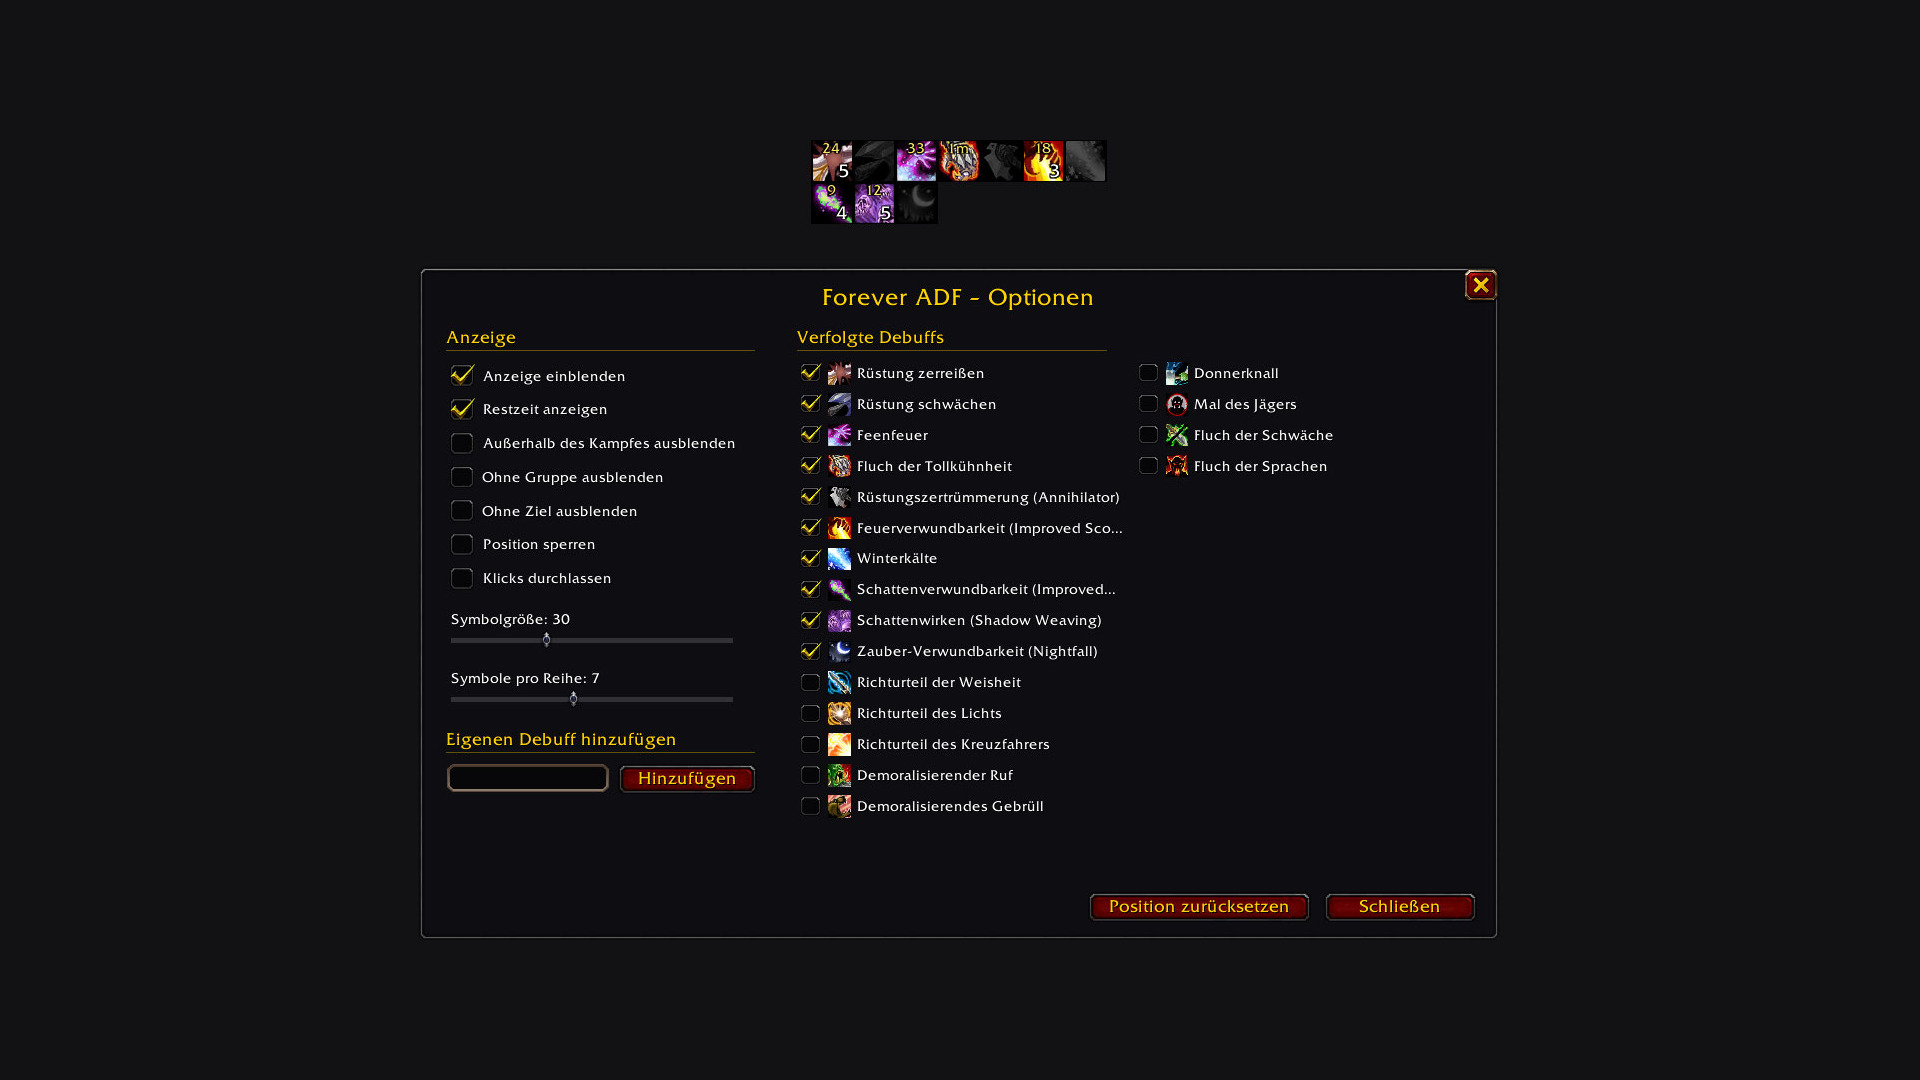
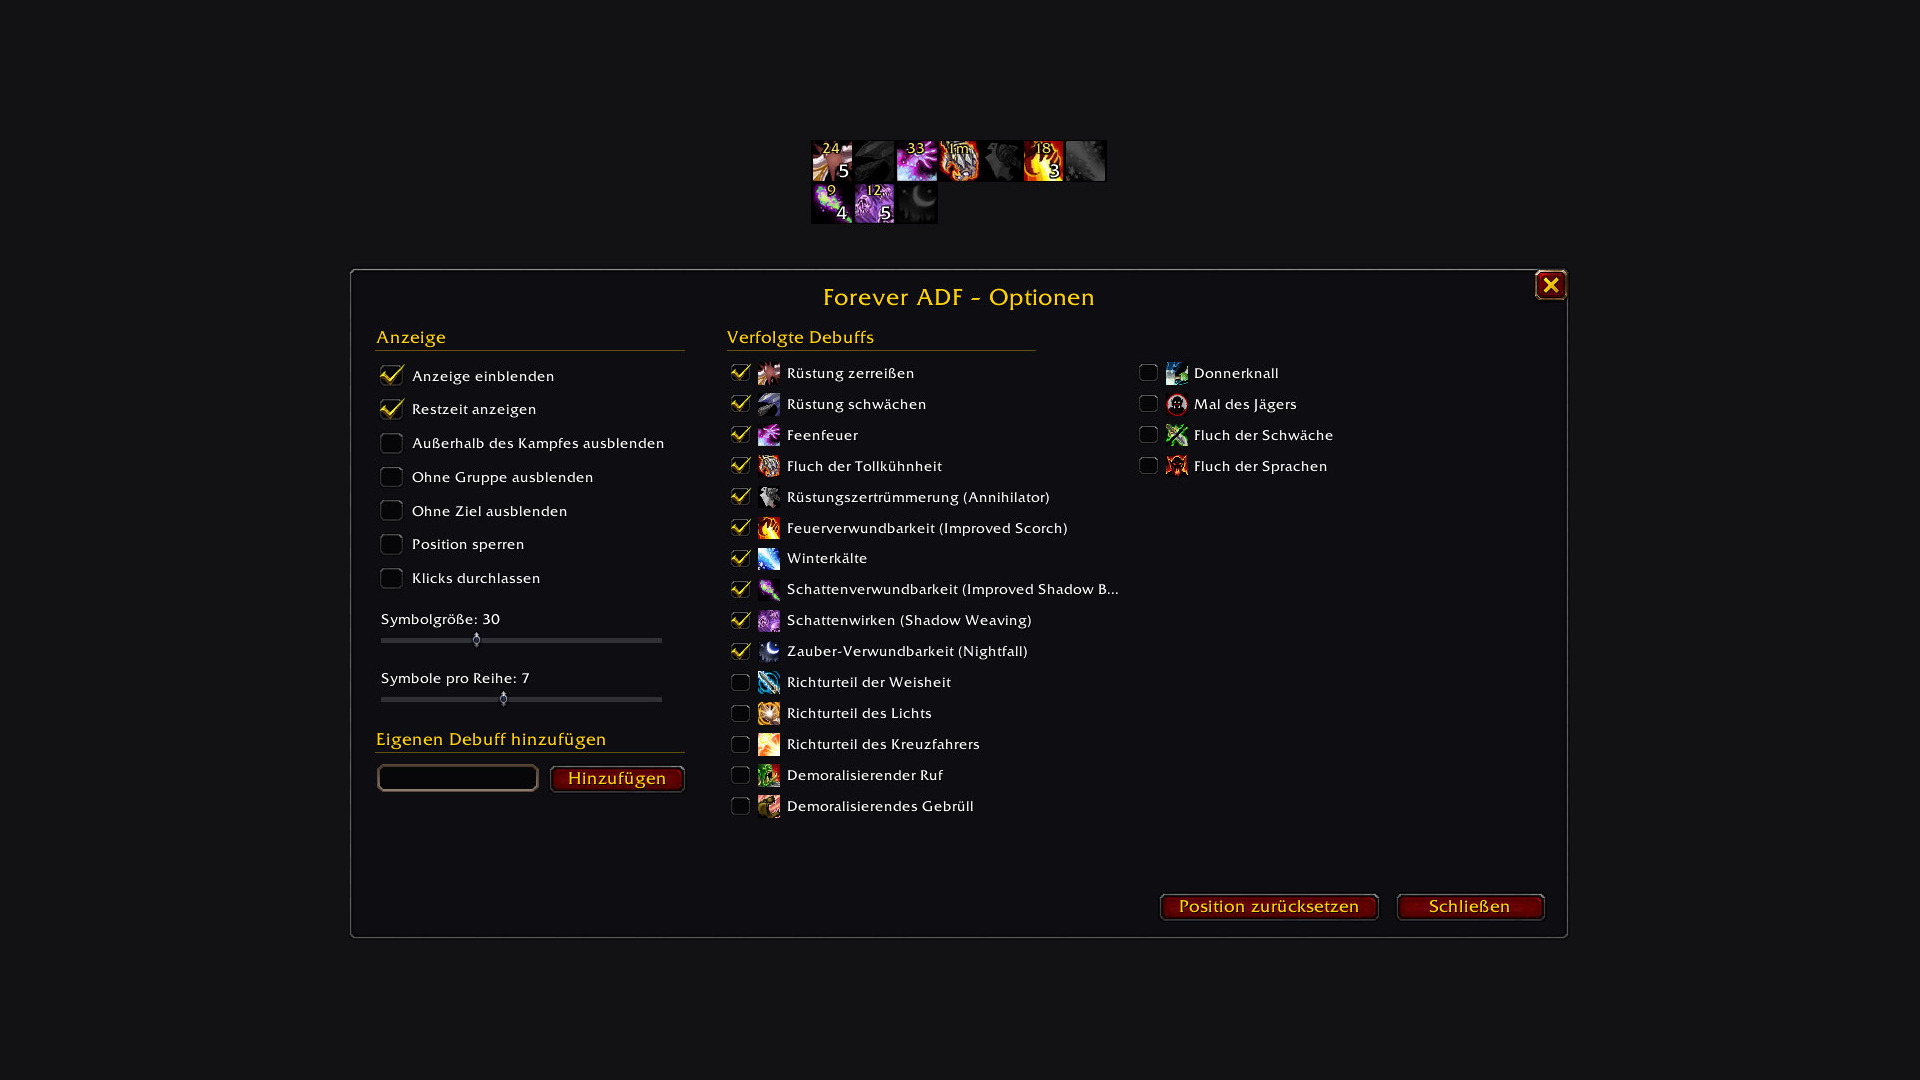
docs: gallery pictures from in-game screenshots; gallery script can shift the cut-out

diff --git a/media/gallery/gallery.py b/media/gallery/gallery.py
@@ -11,9 +11,16 @@ and chat) and makes two pictures from it:
                   read from the second picture. The cut-out is enlarged to 1920x1080.
   02-options.jpg  the options with the frame above them, centred on the sheet's colour, not enlarged.
 
+Options:
+
+  --shift X Y     move the world cut-out by X and Y screenshot pixels (negative: left, up), to get the mob and
+                  the frame into the picture together
+  --only NAME     build only "ingame" or "options"; the other picture and its screenshots in src/ stay
+
 Nothing is retouched; the debuffs in the pictures are the made-up ones /adf shots shows. The folder can also
 come from the environment variable ADF_SCREENSHOTS. Needs Pillow and numpy.
 """
+import argparse
 import os
 import re
 import shutil
@@ -36,7 +43,7 @@ def shot_names():
     return re.findall(r'^\s*\{ "(\d\d-[a-z-]+)",', lua, re.M)
 
 
-def collect(folder):
+def collect(folder, wanted):
     names = shot_names()
     files = [os.path.join(folder, f) for f in os.listdir(folder) if f.lower().endswith((".jpg", ".png", ".tga"))]
     files.sort(key=os.path.getmtime)
@@ -54,6 +61,9 @@ def collect(folder):
     os.makedirs(SRC, exist_ok=True)
     out = {}
     for name, path in zip(names, run):
+        if name not in wanted:
+            out[name] = os.path.join(SRC, name + ".jpg")
+            continue
         target = os.path.join(SRC, name + os.path.splitext(path)[1].lower())
         shutil.copy2(path, target)
         out[name] = target
@@ -78,7 +88,7 @@ def save(img, name):
     print(os.path.relpath(path, ROOT))
 
 
-def ingame(world_path, frame_path):
+def ingame(world_path, frame_path, shift):
     world = Image.open(world_path)
     x0, y0, x1, y1, _ = content_box(Image.open(frame_path))
     width = min(world.width, max(960, round((x1 - x0) * ZOOM)))
@@ -88,8 +98,8 @@ def ingame(world_path, frame_path):
         width = round(height * W / H)
     # the frame sits in the lower middle of the picture, the mob it describes above it
     cx, cy = (x0 + x1) / 2, (y0 + y1) / 2
-    left = min(max(0, round(cx - width / 2)), world.width - width)
-    top = min(max(0, round(cy - height * 0.66)), world.height - height)
+    left = min(max(0, round(cx - width / 2) + shift[0]), world.width - width)
+    top = min(max(0, round(cy - height * 0.66) + shift[1]), world.height - height)
     cut = world.crop((left, top, left + width, top + height))
     print("world cut-out %d x %d at %d,%d (%d%%)" % (width, height, left, top, round(100 * W / width)))
     save(cut.resize((W, H), Image.LANCZOS), "01-ingame.jpg")
@@ -109,12 +119,20 @@ def options(path):
 
 
 def main():
-    folder = sys.argv[1] if len(sys.argv) > 1 else os.environ.get("ADF_SCREENSHOTS")
-    if not folder or not os.path.isdir(folder):
+    parser = argparse.ArgumentParser(description="Builds the gallery images from one /adf shots run.")
+    parser.add_argument("folder", nargs="?", default=os.environ.get("ADF_SCREENSHOTS"))
+    parser.add_argument("--shift", nargs=2, type=int, default=(0, 0), metavar=("X", "Y"))
+    parser.add_argument("--only", choices=("ingame", "options"))
+    args = parser.parse_args()
+    if not args.folder or not os.path.isdir(args.folder):
         sys.exit("Give the game's Screenshots folder as argument (or in ADF_SCREENSHOTS).")
-    shots = collect(folder)
-    ingame(shots["01-world"], shots["02-frame"])
-    options(shots["03-options"])
+    wanted = {"ingame": ("01-world", "02-frame"), "options": ("03-options",)}
+    names = wanted[args.only] if args.only else wanted["ingame"] + wanted["options"]
+    shots = collect(args.folder, names)
+    if args.only != "options":
+        ingame(shots["01-world"], shots["02-frame"], args.shift)
+    if args.only != "ingame":
+        options(shots["03-options"])
 
 
 if __name__ == "__main__":
